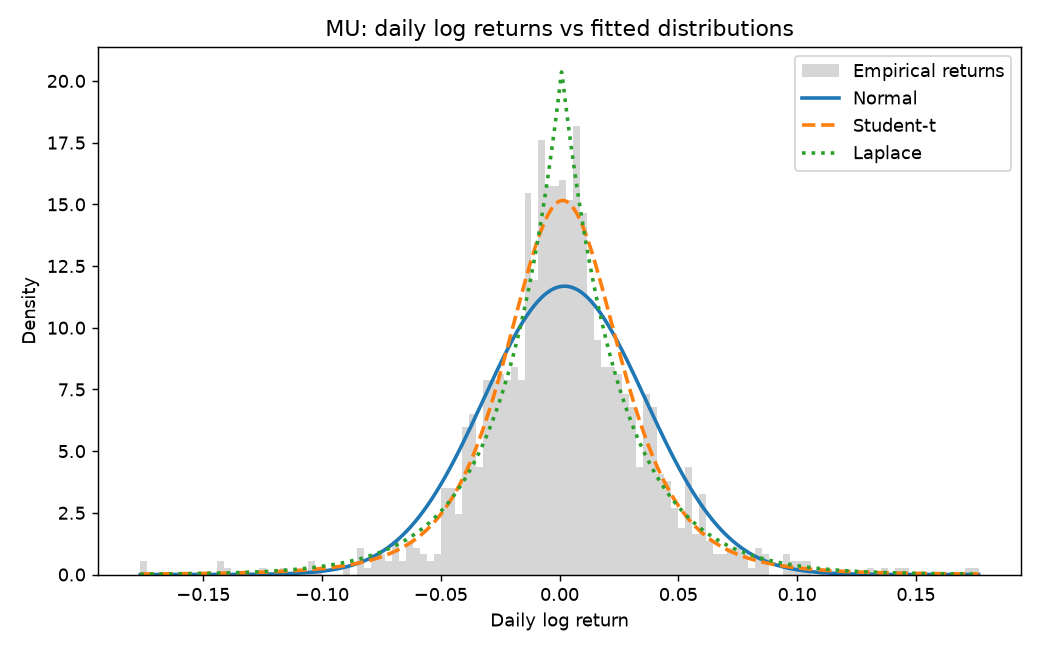
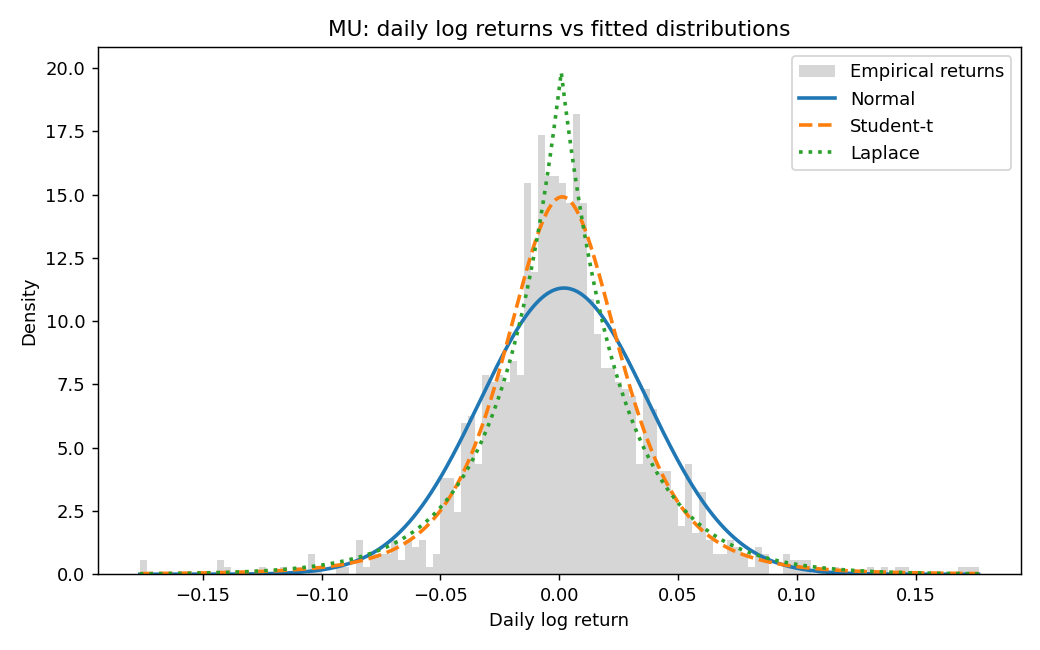
Regenerate Week 1 fits and capstone outputs
Week 1 results now cover all nine tickers (GOOGL, PLTR, VRT, STX, SPY, MU,
IREN, NBIS, TQQQ) on a refreshed five-year window; the committed table had
only the original five. Student-t still wins on AIC for every ticker.

Capstone figures and site export were re-rendered; the only data change in
capstone.json is the generation timestamp.

diff --git a/site/capstone.html b/site/capstone.html
@@ -195,7 +195,7 @@ a:focus-visible,button:focus-visible{outline:2px solid var(--current); outline-o
 </header>
 <main></main>
 </div>
-<script>const DATA = {"meta":{"generated":"2026-08-10 20:58 UTC","window_start":"2024-10-22","window_end":"2026-08-10","n_days":450,"n_assets":20,"absolute_values":false,"value_unit":"index (start = 100)","risk_tolerance_pct_of_wealth":0.25,"max_weight":0.25,"wealth":100.0},"universe":{"tickers":["AVL","BND","EOSE","FDVV","GLD","GOOGL","ITA","MU","NBIS","ONDS","OPEN","PL","QQQM","SCHD","SMH","TQQQ","VOO","VTI","VXUS","XLK"],"held":["AVL","EOSE","GOOGL","MU","NBIS","ONDS","OPEN","PL","TQQQ"],"candidates":["VOO","QQQM","VXUS","SCHD","XLK","VTI","BND","GLD","SMH","ITA","FDVV"],"excluded":{"ASTX":272,"IREX":199,"LUNL":144,"NBIG":197,"NVTX":231},"coverage":0.777377},"statistics":{"obs_per_asset":22.5,"mean_shrinkage":0.589,"mean_target":0.0531,"cov_shrinkage":0.083,"avg_correlation":0.4167,"cond_naive":64048.8,"cond_robust":2743.5,"median_t_df":3.795,"n_reject_normal":20,"per_asset":[{"ticker":"VTI","ann_vol":0.1712,"skew":0.676,"excess_kurtosis":16.978,"t_df":3.04,"best_fit":"Student-t"},{"ticker":"FDVV","ann_vol":0.1368,"skew":0.008,"excess_kurtosis":16.422,"t_df":3.62,"best_fit":"Student-t"},{"ticker":"VOO","ann_vol":0.1648,"skew":0.475,"excess_kurtosis":14.621,"t_df":3.03,"best_fit":"Student-t"},{"ticker":"PL","ann_vol":0.9488,"skew":1.432,"excess_kurtosis":10.215,"t_df":3.58,"best_fit":"Student-t"},{"ticker":"OPEN","ann_vol":1.2269,"skew":1.601,"excess_kurtosis":10.084,"t_df":2.91,"best_fit":"Student-t"},{"ticker":"QQQM","ann_vol":0.2212,"skew":0.469,"excess_kurtosis":9.787,"t_df":3.67,"best_fit":"Student-t"},{"ticker":"SCHD","ann_vol":0.1423,"skew":-0.127,"excess_kurtosis":8.943,"t_df":4.4,"best_fit":"Student-t"},{"ticker":"AVL","ann_vol":1.0594,"skew":-0.216,"excess_kurtosis":8.088,"t_df":3.33,"best_fit":"Student-t"},{"ticker":"TQQQ","ann_vol":0.6612,"skew":0.047,"excess_kurtosis":7.743,"t_df":3.52,"best_fit":"Student-t"},{"ticker":"XLK","ann_vol":0.2741,"skew":0.266,"excess_kurtosis":7.24,"t_df":3.94,"best_fit":"Student-t"},{"ticker":"VXUS","ann_vol":0.1686,"skew":-0.04,"excess_kurtosis":7.208,"t_df":3.26,"best_fit":"Student-t"},{"ticker":"EOSE","ann_vol":1.1366,"skew":-0.348,"excess_kurtosis":6.335,"t_df":4.53,"best_fit":"Student-t"},{"ticker":"GLD","ann_vol":0.2476,"skew":-1.025,"excess_kurtosis":6.28,"t_df":3.76,"best_fit":"Student-t"},{"ticker":"NBIS","ann_vol":1.122,"skew":-0.135,"excess_kurtosis":6.112,"t_df":5.5,"best_fit":"Student-t"},{"ticker":"ITA","ann_vol":0.2308,"skew":-0.125,"excess_kurtosis":5.5,"t_df":4.68,"best_fit":"Student-t"},{"ticker":"SMH","ann_vol":0.3919,"skew":-0.074,"excess_kurtosis":4.883,"t_df":3.83,"best_fit":"Student-t"},{"ticker":"GOOGL","ann_vol":0.3267,"skew":0.284,"excess_kurtosis":2.982,"t_df":4.44,"best_fit":"Student-t"},{"ticker":"MU","ann_vol":0.7331,"skew":-0.091,"excess_kurtosis":2.145,"t_df":4.45,"best_fit":"Student-t"},{"ticker":"ONDS","ann_vol":1.2668,"skew":0.416,"excess_kurtosis":1.086,"t_df":6.58,"best_fit":"Student-t"},{"ticker":"BND","ann_vol":0.0438,"skew":-0.186,"excess_kurtosis":1.019,"t_df":10.11,"best_fit":"Student-t"}]},"frontier":{"robust":[{"vol":0.72959,"ret":0.54725,"sharpe":0.7501,"gamma":0.1,"n_holdings":4,"ce":97.23},{"vol":0.72959,"ret":0.54725,"sharpe":0.7501,"gamma":0.1244,"n_holdings":4,"ce":97.23},{"vol":0.72959,"ret":0.54725,"sharpe":0.7501,"gamma":0.1548,"n_holdings":4,"ce":97.23},{"vol":0.72959,"ret":0.54725,"sharpe":0.7501,"gamma":0.1926,"n_holdings":4,"ce":97.23},{"vol":0.72958,"ret":0.54724,"sharpe":0.7501,"gamma":0.2396,"n_holdings":4,"ce":97.23},{"vol":0.72959,"ret":0.54725,"sharpe":0.7501,"gamma":0.2981,"n_holdings":4,"ce":97.23},{"vol":0.72959,"ret":0.54725,"sharpe":0.7501,"gamma":0.3709,"n_holdings":4,"ce":97.23},{"vol":0.72959,"ret":0.54725,"sharpe":0.7501,"gamma":0.4614,"n_holdings":4,"ce":97.23},{"vol":0.72959,"ret":0.54725,"sharpe":0.7501,"gamma":0.5741,"n_holdings":4,"ce":97.23},{"vol":0.65815,"ret":0.51477,"sharpe":0.7822,"gamma":0.7142,"n_holdings":5,"ce":100.5},{"vol":0.57895,"ret":0.47598,"sharpe":0.8221,"gamma":0.8886,"n_holdings":5,"ce":104.28},{"vol":0.52791,"ret":0.44801,"sharpe":0.8486,"gamma":1.1056,"n_holdings":6,"ce":106.7},{"vol":0.46604,"ret":0.40998,"sharpe":0.8797,"gamma":1.3755,"n_holdings":6,"ce":109.45},{"vol":0.40567,"ret":0.36984,"sharpe":0.9117,"gamma":1.7113,"n_holdings":6,"ce":111.89},{"vol":0.35725,"ret":0.3344,"sharpe":0.936,"gamma":2.1291,"n_holdings":7,"ce":113.44},{"vol":0.29828,"ret":0.28877,"sharpe":0.9681,"gamma":2.649,"n_holdings":7,"ce":114.73},{"vol":0.25276,"ret":0.25192,"sharpe":0.9966,"gamma":3.2957,"n_holdings":7,"ce":115.11},{"vol":0.2094,"ret":0.21501,"sharpe":1.0268,"gamma":4.1003,"n_holdings":8,"ce":114.77},{"vol":0.17191,"ret":0.18264,"sharpe":1.0624,"gamma":5.1014,"n_holdings":8,"ce":113.93},{"vol":0.1525,"ret":0.16489,"sharpe":1.0812,"gamma":6.3469,"n_holdings":9,"ce":113.19},{"vol":0.13567,"ret":0.14769,"sharpe":1.0886,"gamma":7.8965,"n_holdings":10,"ce":112.23},{"vol":0.12189,"ret":0.13215,"sharpe":1.0842,"gamma":9.8244,"n_holdings":10,"ce":111.22},{"vol":0.11224,"ret":0.11985,"sharpe":1.0679,"gamma":12.223,"n_holdings":9,"ce":110.31},{"vol":0.10565,"ret":0.11013,"sharpe":1.0424,"gamma":15.2073,"n_holdings":9,"ce":109.53},{"vol":0.10117,"ret":0.10232,"sharpe":1.0113,"gamma":18.9201,"n_holdings":9,"ce":108.86},{"vol":0.09852,"ret":0.09679,"sharpe":0.9824,"gamma":23.5394,"n_holdings":9,"ce":108.37},{"vol":0.09746,"ret":0.09413,"sharpe":0.9658,"gamma":29.2864,"n_holdings":7,"ce":108.12},{"vol":0.09706,"ret":0.09283,"sharpe":0.9565,"gamma":36.4367,"n_holdings":7,"ce":108.0},{"vol":0.0968,"ret":0.09181,"sharpe":0.9485,"gamma":45.3326,"n_holdings":7,"ce":107.9},{"vol":0.09663,"ret":0.09099,"sharpe":0.9416,"gamma":56.4004,"n_holdings":7,"ce":107.82},{"vol":0.09652,"ret":0.09032,"sharpe":0.9358,"gamma":70.1704,"n_holdings":7,"ce":107.75},{"vol":0.09645,"ret":0.08979,"sharpe":0.931,"gamma":87.3023,"n_holdings":7,"ce":107.7},{"vol":0.0964,"ret":0.08937,"sharpe":0.927,"gamma":108.6169,"n_holdings":7,"ce":107.66},{"vol":0.09637,"ret":0.08902,"sharpe":0.9237,"gamma":135.1354,"n_holdings":7,"ce":107.62},{"vol":0.09635,"ret":0.08875,"sharpe":0.9211,"gamma":168.1284,"n_holdings":7,"ce":107.59},{"vol":0.09634,"ret":0.08852,"sharpe":0.9189,"gamma":209.1765,"n_holdings":7,"ce":107.57},{"vol":0.09633,"ret":0.08835,"sharpe":0.9171,"gamma":260.2463,"n_holdings":7,"ce":107.55},{"vol":0.09633,"ret":0.0882,"sharpe":0.9157,"gamma":323.7848,"n_holdings":7,"ce":107.54},{"vol":0.09632,"ret":0.08809,"sharpe":0.9145,"gamma":402.8359,"n_holdings":7,"ce":107.52},{"vol":0.09632,"ret":0.088,"sharpe":0.9136,"gamma":501.1872,"n_holdings":7,"ce":107.52}],"naive":[{"vol":0.87615,"ret":1.30675,"n_holdings":2},{"vol":0.87314,"ret":1.30646,"n_holdings":2},{"vol":0.86354,"ret":1.30523,"n_holdings":3},{"vol":0.84334,"ret":1.30227,"n_holdings":3},{"vol":0.83002,"ret":1.29989,"n_holdings":3},{"vol":0.82131,"ret":1.29798,"n_holdings":3},{"vol":0.78032,"ret":1.28675,"n_holdings":4},{"vol":0.73724,"ret":1.27331,"n_holdings":4},{"vol":0.70802,"ret":1.26251,"n_holdings":4},{"vol":0.68848,"ret":1.25382,"n_holdings":4},{"vol":0.67556,"ret":1.24684,"n_holdings":4},{"vol":0.66708,"ret":1.24123,"n_holdings":4},{"vol":0.66154,"ret":1.23673,"n_holdings":4},{"vol":0.65794,"ret":1.2331,"n_holdings":4},{"vol":0.6556,"ret":1.23019,"n_holdings":4},{"vol":0.57449,"ret":1.11001,"n_holdings":5},{"vol":0.4984,"ret":0.98996,"n_holdings":6},{"vol":0.41913,"ret":0.85706,"n_holdings":6},{"vol":0.35872,"ret":0.75024,"n_holdings":6},{"vol":0.30411,"ret":0.64694,"n_holdings":7},{"vol":0.25503,"ret":0.55038,"n_holdings":7},{"vol":0.21471,"ret":0.46696,"n_holdings":8},{"vol":0.17448,"ret":0.38167,"n_holdings":8},{"vol":0.14257,"ret":0.31312,"n_holdings":8},{"vol":0.11744,"ret":0.25802,"n_holdings":8},{"vol":0.09782,"ret":0.21373,"n_holdings":8},{"vol":0.08271,"ret":0.17813,"n_holdings":8},{"vol":0.07127,"ret":0.14952,"n_holdings":8},{"vol":0.06278,"ret":0.12653,"n_holdings":8},{"vol":0.05662,"ret":0.10804,"n_holdings":8},{"vol":0.05225,"ret":0.09319,"n_holdings":8},{"vol":0.04923,"ret":0.08125,"n_holdings":8},{"vol":0.04717,"ret":0.07165,"n_holdings":8},{"vol":0.04579,"ret":0.06393,"n_holdings":7},{"vol":0.04489,"ret":0.05781,"n_holdings":7},{"vol":0.0443,"ret":0.05289,"n_holdings":7},{"vol":0.04392,"ret":0.04904,"n_holdings":5},{"vol":0.04374,"ret":0.0467,"n_holdings":5},{"vol":0.04362,"ret":0.04487,"n_holdings":5},{"vol":0.04354,"ret":0.0434,"n_holdings":5}]},"portfolios":{"recommended":{"ret":0.25192,"vol":0.25276,"sharpe":0.9966,"ce":115.11,"gamma":3.2957,"n_holdings":7,"weights":{"GLD":0.25,"GOOGL":0.24684,"MU":0.14556,"NBIS":0.01399,"ONDS":0.02247,"PL":0.08769,"SCHD":0.23345}},"current":{"ret":0.4225,"vol":0.65905,"sharpe":0.6411,"ce":95.51,"n_holdings":9,"weights":{"AVL":0.19876,"EOSE":0.05013,"GOOGL":0.01946,"MU":0.2446,"NBIS":0.1025,"ONDS":0.10592,"OPEN":0.02319,"PL":0.17457,"TQQQ":0.08085}},"min_variance":{"ret":0.04599,"vol":0.0436,"sharpe":1.0548}},"monte_carlo":{"recommended_normal":{"mean":0.28422,"median":0.24407,"std":0.32995,"p_loss_any":0.19254,"p_loss_10":0.10015,"var_5":0.18013,"cvar_5":0.25811,"var_1":0.31003,"cvar_1":0.36601,"ci_low":0.28218,"ci_high":0.28627},"recommended_t":{"mean":0.29136,"median":0.24573,"std":0.9764,"p_loss_any":0.1915,"p_loss_10":0.09838,"var_5":0.1772,"cvar_5":0.25649,"var_1":0.30763,"cvar_1":0.36245},"current_t":{"mean":0.57523,"median":0.2271,"p_loss_any":0.37939,"p_loss_10":0.31965,"var_5":0.58263,"var_1":0.73655},"fan":{"months":[0.0,0.19,0.381,0.571,0.762,0.952,1.143,1.333,1.524,1.714,1.905,2.095,2.286,2.476,2.667,2.857,3.048,3.238,3.429,3.619,3.81,4.0,4.19,4.381,4.571,4.762,4.952,5.143,5.333,5.524,5.714,5.905,6.095,6.286,6.476,6.667,6.857,7.048,7.238,7.429,7.619,7.81,8.0,8.19,8.381,8.571,8.762,8.952,9.143,9.333,9.524,9.714,9.905,10.095,10.286,10.476,10.667,10.857,11.048,11.238,11.429,11.619,11.81,12.0],"p5":[100.0,95.367,93.845,92.847,91.566,91.093,90.3,89.529,89.243,88.707,87.963,87.44,87.038,86.951,86.368,85.971,85.985,85.594,85.588,85.251,84.967,85.006,84.688,84.535,84.671,84.505,84.897,84.327,84.351,84.269,84.123,84.806,84.58,84.397,84.11,84.023,83.902,83.749,83.683,83.783,83.469,83.438,83.386,83.314,83.433,83.189,83.248,83.378,83.713,83.366,83.025,82.814,83.225,83.401,83.035,83.193,83.156,82.921,83.245,82.467,82.657,82.944,83.236,83.375],"p10":[100.0,96.485,95.318,94.468,93.811,93.595,93.055,92.251,91.943,91.853,91.267,91.258,90.901,90.543,90.363,90.449,90.446,90.447,90.321,90.279,90.247,90.116,89.967,89.825,89.93,89.81,89.688,89.674,89.258,89.532,89.514,89.9,89.704,89.65,89.505,89.624,89.506,89.365,89.662,89.8,89.907,89.69,89.582,90.109,90.032,90.271,90.273,90.17,90.541,90.451,90.444,90.597,90.368,90.206,90.289,90.217,90.278,89.981,90.143,90.12,90.067,90.286,90.628,90.716],"p25":[100.0,98.331,97.883,97.734,97.349,97.355,97.331,97.229,97.021,97.089,97.204,97.064,97.096,97.305,97.402,97.711,97.618,97.607,97.865,97.96,98.138,98.151,98.179,98.217,98.308,98.507,98.722,98.839,98.817,98.962,99.277,99.496,99.904,99.835,99.999,100.262,100.314,100.712,100.555,100.991,101.394,101.822,101.867,102.356,102.08,102.186,102.215,102.493,102.872,102.876,103.093,103.05,103.296,103.461,103.51,103.756,103.634,103.949,104.335,104.577,104.479,104.996,105.312,105.535],"p50":[100.0,100.383,100.772,101.158,101.488,101.882,102.391,102.709,103.243,103.517,103.824,104.011,104.407,104.888,105.227,105.724,106.158,106.564,107.024,107.561,107.756,108.186,108.366,109.047,109.527,109.926,110.183,110.64,110.848,111.235,111.727,112.124,112.239,112.508,113.217,113.607,114.094,114.19,114.792,115.065,115.467,116.089,116.315,116.595,116.796,117.17,117.833,118.287,118.707,119.23,119.591,120.017,120.699,121.057,121.385,122.08,122.239,122.792,123.062,123.361,124.245,124.358,124.375,124.999],"p75":[100.0,102.425,103.83,104.806,105.945,107.091,107.909,108.608,109.364,110.014,111.001,111.63,112.313,113.304,114.016,114.856,115.483,116.054,116.77,117.353,118.312,119.072,119.89,120.626,121.164,121.723,122.644,123.607,124.208,124.931,125.475,126.393,127.069,128.07,128.446,128.745,129.269,130.047,130.736,130.939,131.769,132.636,133.615,134.186,135.137,135.487,136.089,136.733,137.679,138.583,139.265,140.183,140.834,141.232,141.827,142.376,143.129,143.987,144.968,145.217,146.073,146.657,147.571,148.27],"p90":[100.0,104.382,106.791,108.54,109.857,111.84,113.031,114.379,115.803,117.184,118.067,119.338,120.225,121.015,122.415,123.598,124.77,126.307,127.659,128.033,129.16,129.935,131.594,132.122,133.26,134.362,135.02,136.257,137.679,138.407,139.329,140.038,140.825,141.909,143.364,144.77,145.551,145.856,146.699,147.486,148.827,150.199,150.842,151.817,153.086,153.888,155.109,156.519,157.384,158.391,159.392,160.428,161.274,161.492,163.47,163.675,165.075,166.122,167.418,168.996,169.772,171.072,172.58,173.831],"p95":[100.0,105.586,108.567,110.897,112.778,114.614,116.368,118.043,119.932,121.224,122.393,123.927,125.084,126.165,127.882,129.196,130.308,132.118,133.546,134.716,135.667,136.927,137.884,139.557,140.474,141.828,143.149,143.938,144.959,147.278,147.104,148.923,150.682,151.512,152.71,154.305,156.078,156.815,158.592,159.651,161.687,161.878,162.524,164.86,165.319,167.153,167.647,169.446,170.167,172.398,173.668,174.015,175.82,177.906,178.71,178.938,179.507,181.258,183.171,185.075,185.749,187.097,188.055,189.608]},"horizon_tails":[{"horizon":"1 day","var1_normal":0.03514,"var1_t":0.0365,"ratio":1.0385},{"horizon":"1 week","var1_normal":0.07541,"var1_t":0.07641,"ratio":1.0132},{"horizon":"1 month","var1_normal":0.14049,"var1_t":0.14116,"ratio":1.0047},{"horizon":"1 year","var1_normal":0.31003,"var1_t":0.30763,"ratio":0.9922}]},"risk_sweep":[{"r_fraction":0.02,"ret":0.0882,"vol":0.09633,"sharpe":0.9157,"n_holdings":7,"top":"BND 25%, FDVV 25%, SCHD 25%","ce":26.76},{"r_fraction":0.05,"ret":0.08835,"vol":0.09633,"sharpe":0.9171,"n_holdings":7,"top":"BND 25%, FDVV 25%, SCHD 25%","ce":59.02},{"r_fraction":0.1,"ret":0.09413,"vol":0.09746,"sharpe":0.9658,"n_holdings":7,"top":"BND 25%, FDVV 25%, SCHD 25%","ce":99.02},{"r_fraction":0.2,"ret":0.18264,"vol":0.17191,"sharpe":1.0624,"n_holdings":8,"top":"BND 25%, SCHD 23%, GLD 19%","ce":111.64},{"r_fraction":0.3,"ret":0.28877,"vol":0.29828,"sharpe":0.9681,"n_holdings":7,"top":"GLD 25%, GOOGL 25%, MU 19%","ce":118.52},{"r_fraction":0.5,"ret":0.44801,"vol":0.52791,"sharpe":0.8486,"n_holdings":6,"top":"MU 25%, GOOGL 25%, PL 25%","ce":131.41},{"r_fraction":1.0,"ret":0.54725,"vol":0.72959,"sharpe":0.7501,"n_holdings":4,"top":"ONDS 25%, MU 25%, NBIS 25%","ce":154.3},{"r_fraction":4.0,"ret":0.54725,"vol":0.72959,"sharpe":0.7501,"n_holdings":4,"top":"ONDS 25%, MU 25%, NBIS 25%","ce":189.82}]};</script>
+<script>const DATA = {"meta":{"generated":"2026-08-11 03:39 UTC","window_start":"2024-10-22","window_end":"2026-08-10","n_days":450,"n_assets":20,"absolute_values":false,"value_unit":"index (start = 100)","risk_tolerance_pct_of_wealth":0.25,"max_weight":0.25,"wealth":100.0},"universe":{"tickers":["AVL","BND","EOSE","FDVV","GLD","GOOGL","ITA","MU","NBIS","ONDS","OPEN","PL","QQQM","SCHD","SMH","TQQQ","VOO","VTI","VXUS","XLK"],"held":["AVL","EOSE","GOOGL","MU","NBIS","ONDS","OPEN","PL","TQQQ"],"candidates":["VOO","QQQM","VXUS","SCHD","XLK","VTI","BND","GLD","SMH","ITA","FDVV"],"excluded":{"ASTX":272,"IREX":199,"LUNL":144,"NBIG":197,"NVTX":231},"coverage":0.777377},"statistics":{"obs_per_asset":22.5,"mean_shrinkage":0.589,"mean_target":0.0531,"cov_shrinkage":0.083,"avg_correlation":0.4167,"cond_naive":64048.8,"cond_robust":2743.5,"median_t_df":3.795,"n_reject_normal":20,"per_asset":[{"ticker":"VTI","ann_vol":0.1712,"skew":0.676,"excess_kurtosis":16.978,"t_df":3.04,"best_fit":"Student-t"},{"ticker":"FDVV","ann_vol":0.1368,"skew":0.008,"excess_kurtosis":16.422,"t_df":3.62,"best_fit":"Student-t"},{"ticker":"VOO","ann_vol":0.1648,"skew":0.475,"excess_kurtosis":14.621,"t_df":3.03,"best_fit":"Student-t"},{"ticker":"PL","ann_vol":0.9488,"skew":1.432,"excess_kurtosis":10.215,"t_df":3.58,"best_fit":"Student-t"},{"ticker":"OPEN","ann_vol":1.2269,"skew":1.601,"excess_kurtosis":10.084,"t_df":2.91,"best_fit":"Student-t"},{"ticker":"QQQM","ann_vol":0.2212,"skew":0.469,"excess_kurtosis":9.787,"t_df":3.67,"best_fit":"Student-t"},{"ticker":"SCHD","ann_vol":0.1423,"skew":-0.127,"excess_kurtosis":8.943,"t_df":4.4,"best_fit":"Student-t"},{"ticker":"AVL","ann_vol":1.0594,"skew":-0.216,"excess_kurtosis":8.088,"t_df":3.33,"best_fit":"Student-t"},{"ticker":"TQQQ","ann_vol":0.6612,"skew":0.047,"excess_kurtosis":7.743,"t_df":3.52,"best_fit":"Student-t"},{"ticker":"XLK","ann_vol":0.2741,"skew":0.266,"excess_kurtosis":7.24,"t_df":3.94,"best_fit":"Student-t"},{"ticker":"VXUS","ann_vol":0.1686,"skew":-0.04,"excess_kurtosis":7.208,"t_df":3.26,"best_fit":"Student-t"},{"ticker":"EOSE","ann_vol":1.1366,"skew":-0.348,"excess_kurtosis":6.335,"t_df":4.53,"best_fit":"Student-t"},{"ticker":"GLD","ann_vol":0.2476,"skew":-1.025,"excess_kurtosis":6.28,"t_df":3.76,"best_fit":"Student-t"},{"ticker":"NBIS","ann_vol":1.122,"skew":-0.135,"excess_kurtosis":6.112,"t_df":5.5,"best_fit":"Student-t"},{"ticker":"ITA","ann_vol":0.2308,"skew":-0.125,"excess_kurtosis":5.5,"t_df":4.68,"best_fit":"Student-t"},{"ticker":"SMH","ann_vol":0.3919,"skew":-0.074,"excess_kurtosis":4.883,"t_df":3.83,"best_fit":"Student-t"},{"ticker":"GOOGL","ann_vol":0.3267,"skew":0.284,"excess_kurtosis":2.982,"t_df":4.44,"best_fit":"Student-t"},{"ticker":"MU","ann_vol":0.7331,"skew":-0.091,"excess_kurtosis":2.145,"t_df":4.45,"best_fit":"Student-t"},{"ticker":"ONDS","ann_vol":1.2668,"skew":0.416,"excess_kurtosis":1.086,"t_df":6.58,"best_fit":"Student-t"},{"ticker":"BND","ann_vol":0.0438,"skew":-0.186,"excess_kurtosis":1.019,"t_df":10.11,"best_fit":"Student-t"}]},"frontier":{"robust":[{"vol":0.72959,"ret":0.54725,"sharpe":0.7501,"gamma":0.1,"n_holdings":4,"ce":97.23},{"vol":0.72959,"ret":0.54725,"sharpe":0.7501,"gamma":0.1244,"n_holdings":4,"ce":97.23},{"vol":0.72959,"ret":0.54725,"sharpe":0.7501,"gamma":0.1548,"n_holdings":4,"ce":97.23},{"vol":0.72959,"ret":0.54725,"sharpe":0.7501,"gamma":0.1926,"n_holdings":4,"ce":97.23},{"vol":0.72958,"ret":0.54724,"sharpe":0.7501,"gamma":0.2396,"n_holdings":4,"ce":97.23},{"vol":0.72959,"ret":0.54725,"sharpe":0.7501,"gamma":0.2981,"n_holdings":4,"ce":97.23},{"vol":0.72959,"ret":0.54725,"sharpe":0.7501,"gamma":0.3709,"n_holdings":4,"ce":97.23},{"vol":0.72959,"ret":0.54725,"sharpe":0.7501,"gamma":0.4614,"n_holdings":4,"ce":97.23},{"vol":0.72959,"ret":0.54725,"sharpe":0.7501,"gamma":0.5741,"n_holdings":4,"ce":97.23},{"vol":0.65815,"ret":0.51477,"sharpe":0.7822,"gamma":0.7142,"n_holdings":5,"ce":100.5},{"vol":0.57895,"ret":0.47598,"sharpe":0.8221,"gamma":0.8886,"n_holdings":5,"ce":104.28},{"vol":0.52791,"ret":0.44801,"sharpe":0.8486,"gamma":1.1056,"n_holdings":6,"ce":106.7},{"vol":0.46604,"ret":0.40998,"sharpe":0.8797,"gamma":1.3755,"n_holdings":6,"ce":109.45},{"vol":0.40567,"ret":0.36984,"sharpe":0.9117,"gamma":1.7113,"n_holdings":6,"ce":111.89},{"vol":0.35725,"ret":0.3344,"sharpe":0.936,"gamma":2.1291,"n_holdings":7,"ce":113.44},{"vol":0.29828,"ret":0.28877,"sharpe":0.9681,"gamma":2.649,"n_holdings":7,"ce":114.73},{"vol":0.25276,"ret":0.25192,"sharpe":0.9966,"gamma":3.2957,"n_holdings":7,"ce":115.11},{"vol":0.2094,"ret":0.21501,"sharpe":1.0268,"gamma":4.1003,"n_holdings":8,"ce":114.77},{"vol":0.17191,"ret":0.18264,"sharpe":1.0624,"gamma":5.1014,"n_holdings":8,"ce":113.93},{"vol":0.1525,"ret":0.16489,"sharpe":1.0812,"gamma":6.3469,"n_holdings":9,"ce":113.19},{"vol":0.13567,"ret":0.14769,"sharpe":1.0886,"gamma":7.8965,"n_holdings":10,"ce":112.23},{"vol":0.12189,"ret":0.13215,"sharpe":1.0842,"gamma":9.8244,"n_holdings":10,"ce":111.22},{"vol":0.11224,"ret":0.11985,"sharpe":1.0679,"gamma":12.223,"n_holdings":9,"ce":110.31},{"vol":0.10565,"ret":0.11013,"sharpe":1.0424,"gamma":15.2073,"n_holdings":9,"ce":109.53},{"vol":0.10117,"ret":0.10232,"sharpe":1.0113,"gamma":18.9201,"n_holdings":9,"ce":108.86},{"vol":0.09852,"ret":0.09679,"sharpe":0.9824,"gamma":23.5394,"n_holdings":9,"ce":108.37},{"vol":0.09746,"ret":0.09413,"sharpe":0.9658,"gamma":29.2864,"n_holdings":7,"ce":108.12},{"vol":0.09706,"ret":0.09283,"sharpe":0.9565,"gamma":36.4367,"n_holdings":7,"ce":108.0},{"vol":0.0968,"ret":0.09181,"sharpe":0.9485,"gamma":45.3326,"n_holdings":7,"ce":107.9},{"vol":0.09663,"ret":0.09099,"sharpe":0.9416,"gamma":56.4004,"n_holdings":7,"ce":107.82},{"vol":0.09652,"ret":0.09032,"sharpe":0.9358,"gamma":70.1704,"n_holdings":7,"ce":107.75},{"vol":0.09645,"ret":0.08979,"sharpe":0.931,"gamma":87.3023,"n_holdings":7,"ce":107.7},{"vol":0.0964,"ret":0.08937,"sharpe":0.927,"gamma":108.6169,"n_holdings":7,"ce":107.66},{"vol":0.09637,"ret":0.08902,"sharpe":0.9237,"gamma":135.1354,"n_holdings":7,"ce":107.62},{"vol":0.09635,"ret":0.08875,"sharpe":0.9211,"gamma":168.1284,"n_holdings":7,"ce":107.59},{"vol":0.09634,"ret":0.08852,"sharpe":0.9189,"gamma":209.1765,"n_holdings":7,"ce":107.57},{"vol":0.09633,"ret":0.08835,"sharpe":0.9171,"gamma":260.2463,"n_holdings":7,"ce":107.55},{"vol":0.09633,"ret":0.0882,"sharpe":0.9157,"gamma":323.7848,"n_holdings":7,"ce":107.54},{"vol":0.09632,"ret":0.08809,"sharpe":0.9145,"gamma":402.8359,"n_holdings":7,"ce":107.52},{"vol":0.09632,"ret":0.088,"sharpe":0.9136,"gamma":501.1872,"n_holdings":7,"ce":107.52}],"naive":[{"vol":0.87615,"ret":1.30675,"n_holdings":2},{"vol":0.87314,"ret":1.30646,"n_holdings":2},{"vol":0.86354,"ret":1.30523,"n_holdings":3},{"vol":0.84334,"ret":1.30227,"n_holdings":3},{"vol":0.83002,"ret":1.29989,"n_holdings":3},{"vol":0.82131,"ret":1.29798,"n_holdings":3},{"vol":0.78032,"ret":1.28675,"n_holdings":4},{"vol":0.73724,"ret":1.27331,"n_holdings":4},{"vol":0.70802,"ret":1.26251,"n_holdings":4},{"vol":0.68848,"ret":1.25382,"n_holdings":4},{"vol":0.67556,"ret":1.24684,"n_holdings":4},{"vol":0.66708,"ret":1.24123,"n_holdings":4},{"vol":0.66154,"ret":1.23673,"n_holdings":4},{"vol":0.65794,"ret":1.2331,"n_holdings":4},{"vol":0.6556,"ret":1.23019,"n_holdings":4},{"vol":0.57449,"ret":1.11001,"n_holdings":5},{"vol":0.4984,"ret":0.98996,"n_holdings":6},{"vol":0.41913,"ret":0.85706,"n_holdings":6},{"vol":0.35872,"ret":0.75024,"n_holdings":6},{"vol":0.30411,"ret":0.64694,"n_holdings":7},{"vol":0.25503,"ret":0.55038,"n_holdings":7},{"vol":0.21471,"ret":0.46696,"n_holdings":8},{"vol":0.17448,"ret":0.38167,"n_holdings":8},{"vol":0.14257,"ret":0.31312,"n_holdings":8},{"vol":0.11744,"ret":0.25802,"n_holdings":8},{"vol":0.09782,"ret":0.21373,"n_holdings":8},{"vol":0.08271,"ret":0.17813,"n_holdings":8},{"vol":0.07127,"ret":0.14952,"n_holdings":8},{"vol":0.06278,"ret":0.12653,"n_holdings":8},{"vol":0.05662,"ret":0.10804,"n_holdings":8},{"vol":0.05225,"ret":0.09319,"n_holdings":8},{"vol":0.04923,"ret":0.08125,"n_holdings":8},{"vol":0.04717,"ret":0.07165,"n_holdings":8},{"vol":0.04579,"ret":0.06393,"n_holdings":7},{"vol":0.04489,"ret":0.05781,"n_holdings":7},{"vol":0.0443,"ret":0.05289,"n_holdings":7},{"vol":0.04392,"ret":0.04904,"n_holdings":5},{"vol":0.04374,"ret":0.0467,"n_holdings":5},{"vol":0.04362,"ret":0.04487,"n_holdings":5},{"vol":0.04354,"ret":0.0434,"n_holdings":5}]},"portfolios":{"recommended":{"ret":0.25192,"vol":0.25276,"sharpe":0.9966,"ce":115.11,"gamma":3.2957,"n_holdings":7,"weights":{"GLD":0.25,"GOOGL":0.24684,"MU":0.14556,"NBIS":0.01399,"ONDS":0.02247,"PL":0.08769,"SCHD":0.23345}},"current":{"ret":0.4225,"vol":0.65905,"sharpe":0.6411,"ce":95.51,"n_holdings":9,"weights":{"AVL":0.19876,"EOSE":0.05013,"GOOGL":0.01946,"MU":0.2446,"NBIS":0.1025,"ONDS":0.10592,"OPEN":0.02319,"PL":0.17457,"TQQQ":0.08085}},"min_variance":{"ret":0.04599,"vol":0.0436,"sharpe":1.0548}},"monte_carlo":{"recommended_normal":{"mean":0.28422,"median":0.24407,"std":0.32995,"p_loss_any":0.19254,"p_loss_10":0.10015,"var_5":0.18013,"cvar_5":0.25811,"var_1":0.31003,"cvar_1":0.36601,"ci_low":0.28218,"ci_high":0.28627},"recommended_t":{"mean":0.29136,"median":0.24573,"std":0.9764,"p_loss_any":0.1915,"p_loss_10":0.09838,"var_5":0.1772,"cvar_5":0.25649,"var_1":0.30763,"cvar_1":0.36245},"current_t":{"mean":0.57523,"median":0.2271,"p_loss_any":0.37939,"p_loss_10":0.31965,"var_5":0.58263,"var_1":0.73655},"fan":{"months":[0.0,0.19,0.381,0.571,0.762,0.952,1.143,1.333,1.524,1.714,1.905,2.095,2.286,2.476,2.667,2.857,3.048,3.238,3.429,3.619,3.81,4.0,4.19,4.381,4.571,4.762,4.952,5.143,5.333,5.524,5.714,5.905,6.095,6.286,6.476,6.667,6.857,7.048,7.238,7.429,7.619,7.81,8.0,8.19,8.381,8.571,8.762,8.952,9.143,9.333,9.524,9.714,9.905,10.095,10.286,10.476,10.667,10.857,11.048,11.238,11.429,11.619,11.81,12.0],"p5":[100.0,95.367,93.845,92.847,91.566,91.093,90.3,89.529,89.243,88.707,87.963,87.44,87.038,86.951,86.368,85.971,85.985,85.594,85.588,85.251,84.967,85.006,84.688,84.535,84.671,84.505,84.897,84.327,84.351,84.269,84.123,84.806,84.58,84.397,84.11,84.023,83.902,83.749,83.683,83.783,83.469,83.438,83.386,83.314,83.433,83.189,83.248,83.378,83.713,83.366,83.025,82.814,83.225,83.401,83.035,83.193,83.156,82.921,83.245,82.467,82.657,82.944,83.236,83.375],"p10":[100.0,96.485,95.318,94.468,93.811,93.595,93.055,92.251,91.943,91.853,91.267,91.258,90.901,90.543,90.363,90.449,90.446,90.447,90.321,90.279,90.247,90.116,89.967,89.825,89.93,89.81,89.688,89.674,89.258,89.532,89.514,89.9,89.704,89.65,89.505,89.624,89.506,89.365,89.662,89.8,89.907,89.69,89.582,90.109,90.032,90.271,90.273,90.17,90.541,90.451,90.444,90.597,90.368,90.206,90.289,90.217,90.278,89.981,90.143,90.12,90.067,90.286,90.628,90.716],"p25":[100.0,98.331,97.883,97.734,97.349,97.355,97.331,97.229,97.021,97.089,97.204,97.064,97.096,97.305,97.402,97.711,97.618,97.607,97.865,97.96,98.138,98.151,98.179,98.217,98.308,98.507,98.722,98.839,98.817,98.962,99.277,99.496,99.904,99.835,99.999,100.262,100.314,100.712,100.555,100.991,101.394,101.822,101.867,102.356,102.08,102.186,102.215,102.493,102.872,102.876,103.093,103.05,103.296,103.461,103.51,103.756,103.634,103.949,104.335,104.577,104.479,104.996,105.312,105.535],"p50":[100.0,100.383,100.772,101.158,101.488,101.882,102.391,102.709,103.243,103.517,103.824,104.011,104.407,104.888,105.227,105.724,106.158,106.564,107.024,107.561,107.756,108.186,108.366,109.047,109.527,109.926,110.183,110.64,110.848,111.235,111.727,112.124,112.239,112.508,113.217,113.607,114.094,114.19,114.792,115.065,115.467,116.089,116.315,116.595,116.796,117.17,117.833,118.287,118.707,119.23,119.591,120.017,120.699,121.057,121.385,122.08,122.239,122.792,123.062,123.361,124.245,124.358,124.375,124.999],"p75":[100.0,102.425,103.83,104.806,105.945,107.091,107.909,108.608,109.364,110.014,111.001,111.63,112.313,113.304,114.016,114.856,115.483,116.054,116.77,117.353,118.312,119.072,119.89,120.626,121.164,121.723,122.644,123.607,124.208,124.931,125.475,126.393,127.069,128.07,128.446,128.745,129.269,130.047,130.736,130.939,131.769,132.636,133.615,134.186,135.137,135.487,136.089,136.733,137.679,138.583,139.265,140.183,140.834,141.232,141.827,142.376,143.129,143.987,144.968,145.217,146.073,146.657,147.571,148.27],"p90":[100.0,104.382,106.791,108.54,109.857,111.84,113.031,114.379,115.803,117.184,118.067,119.338,120.225,121.015,122.415,123.598,124.77,126.307,127.659,128.033,129.16,129.935,131.594,132.122,133.26,134.362,135.02,136.257,137.679,138.407,139.329,140.038,140.825,141.909,143.364,144.77,145.551,145.856,146.699,147.486,148.827,150.199,150.842,151.817,153.086,153.888,155.109,156.519,157.384,158.391,159.392,160.428,161.274,161.492,163.47,163.675,165.075,166.122,167.418,168.996,169.772,171.072,172.58,173.831],"p95":[100.0,105.586,108.567,110.897,112.778,114.614,116.368,118.043,119.932,121.224,122.393,123.927,125.084,126.165,127.882,129.196,130.308,132.118,133.546,134.716,135.667,136.927,137.884,139.557,140.474,141.828,143.149,143.938,144.959,147.278,147.104,148.923,150.682,151.512,152.71,154.305,156.078,156.815,158.592,159.651,161.687,161.878,162.524,164.86,165.319,167.153,167.647,169.446,170.167,172.398,173.668,174.015,175.82,177.906,178.71,178.938,179.507,181.258,183.171,185.075,185.749,187.097,188.055,189.608]},"horizon_tails":[{"horizon":"1 day","var1_normal":0.03514,"var1_t":0.0365,"ratio":1.0385},{"horizon":"1 week","var1_normal":0.07541,"var1_t":0.07641,"ratio":1.0132},{"horizon":"1 month","var1_normal":0.14049,"var1_t":0.14116,"ratio":1.0047},{"horizon":"1 year","var1_normal":0.31003,"var1_t":0.30763,"ratio":0.9922}]},"risk_sweep":[{"r_fraction":0.02,"ret":0.0882,"vol":0.09633,"sharpe":0.9157,"n_holdings":7,"top":"BND 25%, FDVV 25%, SCHD 25%","ce":26.76},{"r_fraction":0.05,"ret":0.08835,"vol":0.09633,"sharpe":0.9171,"n_holdings":7,"top":"BND 25%, FDVV 25%, SCHD 25%","ce":59.02},{"r_fraction":0.1,"ret":0.09413,"vol":0.09746,"sharpe":0.9658,"n_holdings":7,"top":"BND 25%, FDVV 25%, SCHD 25%","ce":99.02},{"r_fraction":0.2,"ret":0.18264,"vol":0.17191,"sharpe":1.0624,"n_holdings":8,"top":"BND 25%, SCHD 23%, GLD 19%","ce":111.64},{"r_fraction":0.3,"ret":0.28877,"vol":0.29828,"sharpe":0.9681,"n_holdings":7,"top":"GLD 25%, GOOGL 25%, MU 19%","ce":118.52},{"r_fraction":0.5,"ret":0.44801,"vol":0.52791,"sharpe":0.8486,"n_holdings":6,"top":"MU 25%, GOOGL 25%, PL 25%","ce":131.41},{"r_fraction":1.0,"ret":0.54725,"vol":0.72959,"sharpe":0.7501,"n_holdings":4,"top":"ONDS 25%, MU 25%, NBIS 25%","ce":154.3},{"r_fraction":4.0,"ret":0.54725,"vol":0.72959,"sharpe":0.7501,"n_holdings":4,"top":"ONDS 25%, MU 25%, NBIS 25%","ce":189.82}]};</script>
 <script>
 (function(){
   const $ = (s,r)=> (r||document).querySelector(s);

diff --git a/projects/01-distribution-fitting/results/results_table.md b/projects/01-distribution-fitting/results/results_table.md
@@ -1,7 +1,11 @@
 | Ticker   | Daily σ   |   Skew |   Excess kurt. |   t df |   KS (Normal) |   KS (t) | Best fit (AIC)   |
 |:---------|:----------|-------:|---------------:|-------:|--------------:|---------:|:-----------------|
-| GOOGL    | 1.73%     |   0.51 |            4   |    4.7 |        0.0516 |   0.0149 | Student-t        |
-| PLTR     | 3.96%     |  -0.6  |            7.3 |    3.7 |        0.0646 |   0.0172 | Student-t        |
-| VRT      | 4.05%     |  -4.86 |           81.7 |    3.1 |        0.1095 |   0.0113 | Student-t        |
-| STX      | 3.01%     |  -0.66 |           16.8 |    3.3 |        0.0958 |   0.0162 | Student-t        |
-| SPY      | 1.09%     |   0.27 |            2.2 |    5.2 |        0.0505 |   0.0142 | Student-t        |
+| GOOGL    | 2.02%     |   0.01 |            3   |    4.4 |        0.0502 |   0.0162 | Student-t        |
+| PLTR     | 4.16%     |   0.55 |            5.8 |    3.6 |        0.0653 |   0.0143 | Student-t        |
+| VRT      | 4.09%     |  -1.49 |           19.1 |    4.4 |        0.0717 |   0.0181 | Student-t        |
+| STX      | 2.97%     |   0.08 |            4.5 |    3.7 |        0.061  |   0.0116 | Student-t        |
+| SPY      | 1.08%     |   0.15 |            7.9 |    3.9 |        0.0724 |   0.023  | Student-t        |
+| MU       | 3.53%     |   0.11 |            3.5 |    3.8 |        0.0647 |   0.0232 | Student-t        |
+| IREN     | 7.3%      |   0.42 |            3.6 |    7.1 |        0.0426 |   0.0248 | Student-t        |
+| NBIS     | 7.07%     |  -0.13 |            6.1 |    5.5 |        0.0438 |   0.0225 | Student-t        |
+| TQQQ     | 4.3%      |  -0.21 |            3.4 |    4.7 |        0.0678 |   0.0252 | Student-t        |
